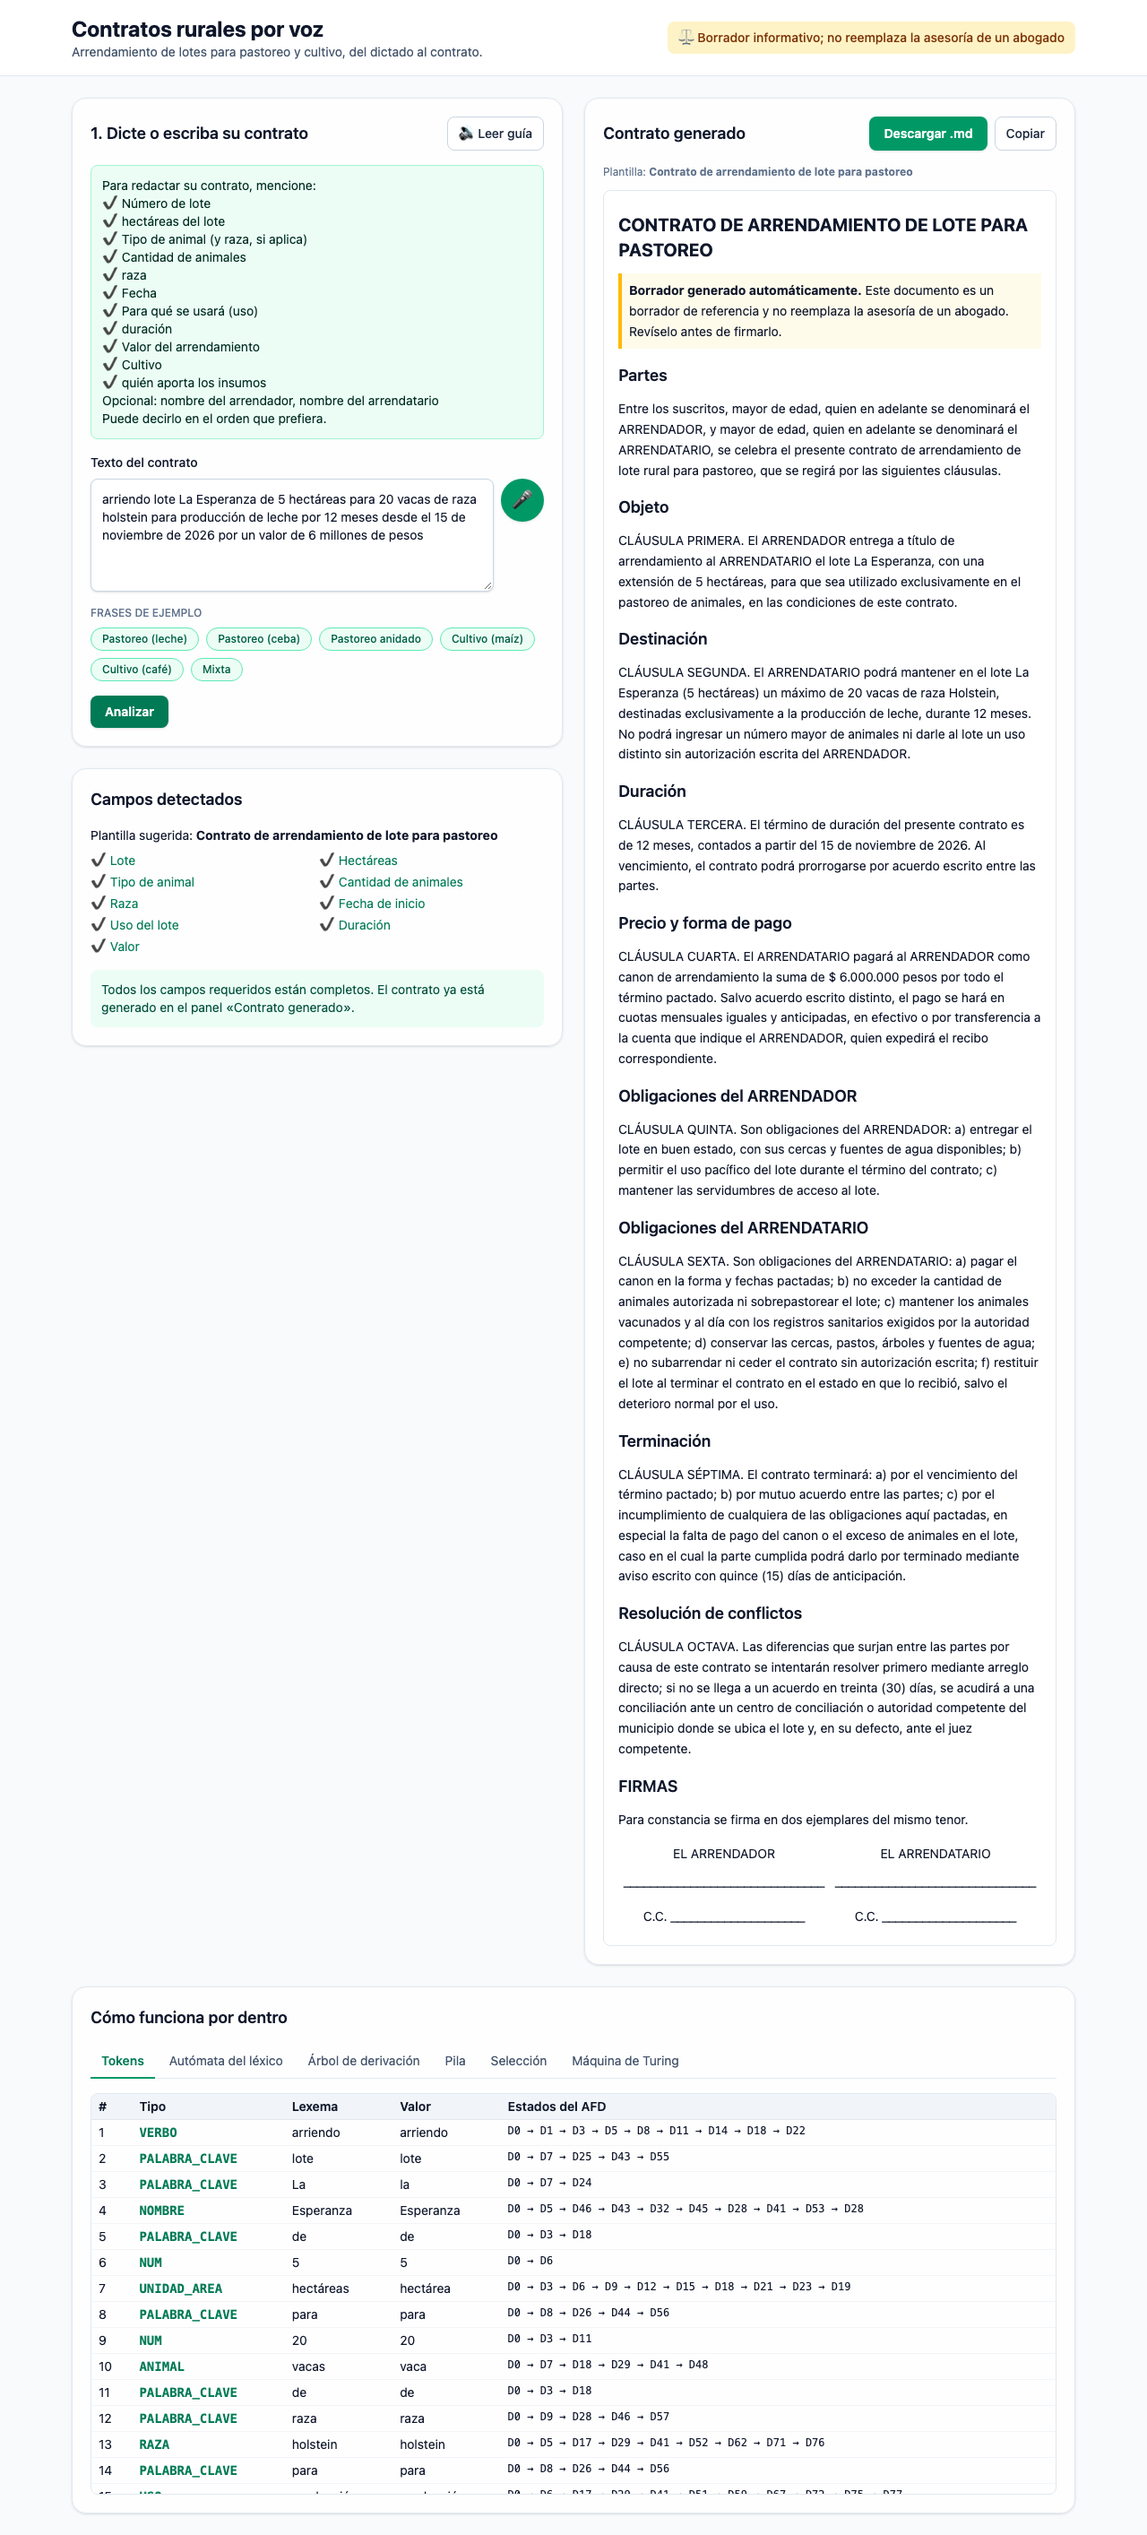
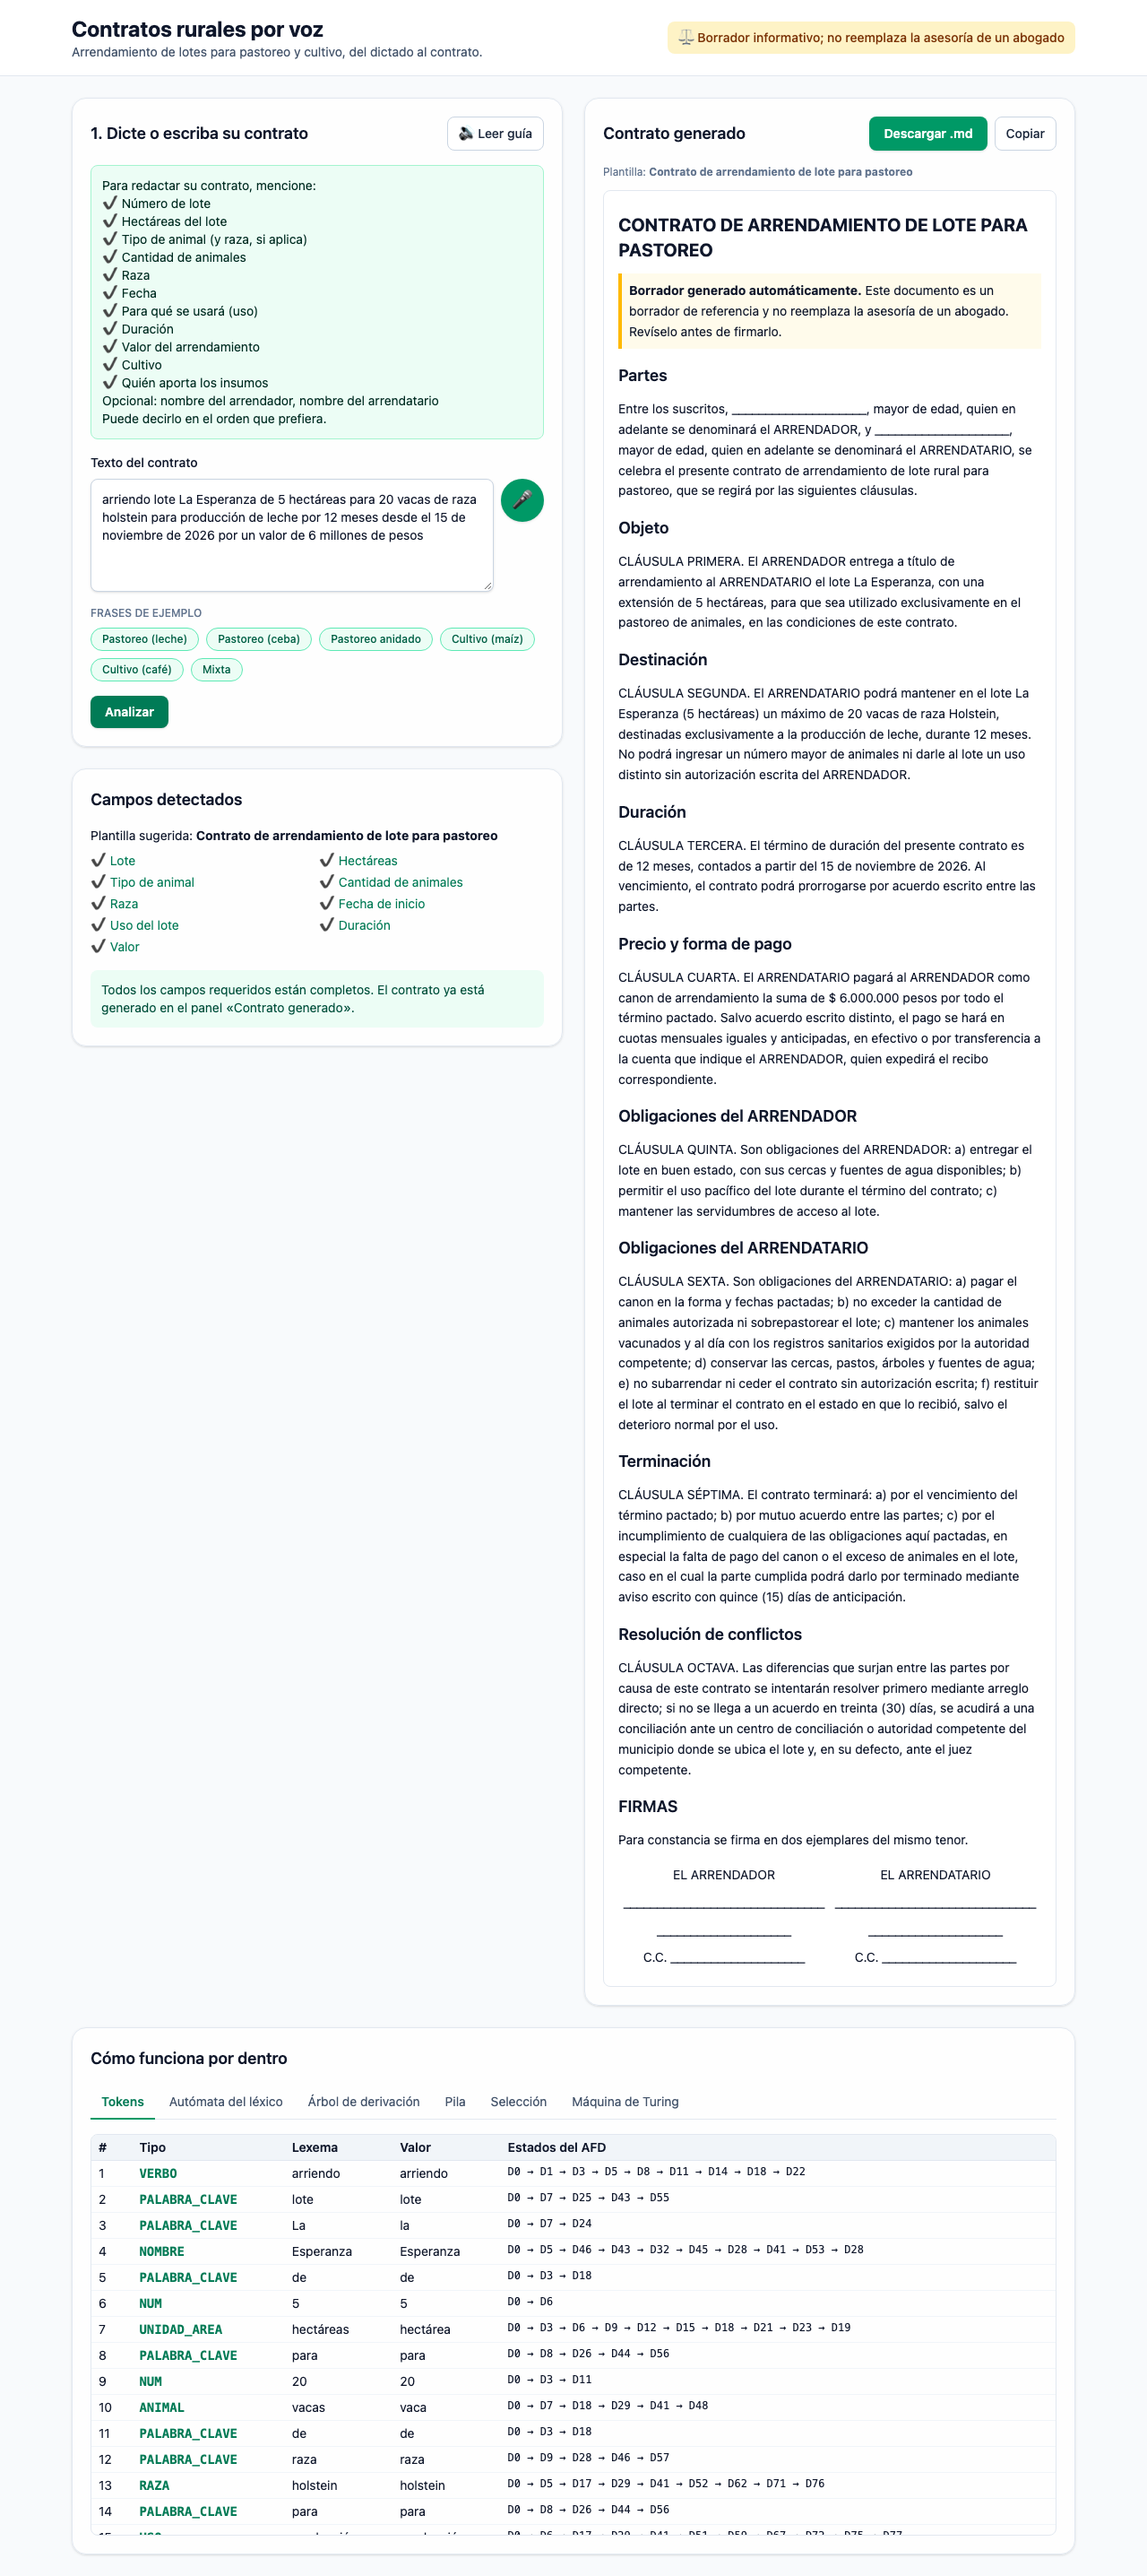
fix(core): leave blank lines for unnamed parties and capitalize guide labels

diff --git a/src/core/dialog.ts b/src/core/dialog.ts
@@ -16,21 +16,61 @@ const animals = (f: ContractFields) => [...(f.animales ?? []), ...(f.animales ??
 
 /** Known field keys (accents ignored). Unknown keys fall back to the key itself. */
 const FIELDS: Record<string, FieldInfo> = {
-  animal: { guide: "Tipo de animal (y raza, si aplica)", question: "el tipo de animal", isPresent: (f) => animals(f).length > 0 },
-  cantidad: { guide: "cantidad de animales", question: "la cantidad de animales", isPresent: (f) => animals(f).some((a) => a.cantidad !== undefined) },
-  tipo_animal: { guide: "Tipo de animal (y raza, si aplica)", question: "el tipo de animal", isPresent: (f) => animals(f).length > 0 },
-  cantidad_animales: { guide: "Cantidad de animales", question: "la cantidad de animales", isPresent: (f) => animals(f).some((a) => a.cantidad !== undefined) },
+  animal: {
+    guide: "Tipo de animal (y raza, si aplica)",
+    question: "el tipo de animal",
+    isPresent: (f) => animals(f).length > 0,
+  },
+  cantidad: {
+    guide: "cantidad de animales",
+    question: "la cantidad de animales",
+    isPresent: (f) => animals(f).some((a) => a.cantidad !== undefined),
+  },
+  tipo_animal: {
+    guide: "Tipo de animal (y raza, si aplica)",
+    question: "el tipo de animal",
+    isPresent: (f) => animals(f).length > 0,
+  },
+  cantidad_animales: {
+    guide: "Cantidad de animales",
+    question: "la cantidad de animales",
+    isPresent: (f) => animals(f).some((a) => a.cantidad !== undefined),
+  },
   raza: { guide: "raza", question: "la raza", isPresent: (f) => animals(f).some((a) => a.raza !== undefined) },
   lote: { guide: "Número de lote", question: "el número o nombre del lote", isPresent: (f) => f.lote !== undefined },
-  hectareas: { guide: "hectáreas del lote", question: "las hectáreas del lote", isPresent: (f) => f.hectareas !== undefined },
+  hectareas: {
+    guide: "hectáreas del lote",
+    question: "las hectáreas del lote",
+    isPresent: (f) => f.hectareas !== undefined,
+  },
   fecha: { guide: "Fecha", question: "la fecha", isPresent: (f) => f.fecha !== undefined },
-  valor: { guide: "Valor del arrendamiento", question: "el valor del arrendamiento", isPresent: (f) => f.valor !== undefined },
-  uso: { guide: "Para qué se usará (uso)", question: "para qué se usará el lote", isPresent: (f) => f.uso !== undefined },
+  valor: {
+    guide: "Valor del arrendamiento",
+    question: "el valor del arrendamiento",
+    isPresent: (f) => f.valor !== undefined,
+  },
+  uso: {
+    guide: "Para qué se usará (uso)",
+    question: "para qué se usará el lote",
+    isPresent: (f) => f.uso !== undefined,
+  },
   duracion: { guide: "duración", question: "la duración", isPresent: (f) => f.duracion !== undefined },
   cultivo: { guide: "Cultivo", question: "el cultivo", isPresent: (f) => f.cultivo !== undefined },
-  insumos: { guide: "quién aporta los insumos", question: "quién aporta los insumos", isPresent: (f) => f.insumos !== undefined },
-  arrendador: { guide: "Nombre del arrendador", question: "el nombre del arrendador", isPresent: (f) => f.arrendador !== undefined },
-  arrendatario: { guide: "Nombre del arrendatario", question: "el nombre del arrendatario", isPresent: (f) => f.arrendatario !== undefined },
+  insumos: {
+    guide: "quién aporta los insumos",
+    question: "quién aporta los insumos",
+    isPresent: (f) => f.insumos !== undefined,
+  },
+  arrendador: {
+    guide: "Nombre del arrendador",
+    question: "el nombre del arrendador",
+    isPresent: (f) => f.arrendador !== undefined,
+  },
+  arrendatario: {
+    guide: "Nombre del arrendatario",
+    question: "el nombre del arrendatario",
+    isPresent: (f) => f.arrendatario !== undefined,
+  },
 };
 
 function infoOf(key: string): FieldInfo | undefined {
@@ -46,12 +86,16 @@ function joinSpanish(parts: string[]): string {
 /** Initial guide (proposal §5.6) built from the template declaration. */
 export function guideText(declaration: FieldDeclaration): string {
   const lines = ["Para redactar su contrato, mencione:"];
-  for (const key of declaration.required) lines.push(`✔ ${infoOf(key)?.guide ?? key}`);
+  for (const key of declaration.required) lines.push(`✔ ${capitalize(infoOf(key)?.guide ?? key)}`);
   if (declaration.optional.length > 0) {
     lines.push(`Opcional: ${declaration.optional.map((k) => (infoOf(k)?.guide ?? k).toLowerCase()).join(", ")}`);
   }
   lines.push("Puede decirlo en el orden que prefiera.");
   return lines.join("\n");
+}
+
+function capitalize(text: string): string {
+  return text.charAt(0).toUpperCase() + text.slice(1);
 }
 
 /** Required keys that are not present in `fields`, in declaration order. */

diff --git a/src/core/pipeline.ts b/src/core/pipeline.ts
@@ -1,7 +1,7 @@
 import { mergeFields, missingFields, questionFor } from "./dialog";
 import { tokenize } from "./lexer";
 import { parseContract, type ParseOutcome } from "./parser";
-import { extractedFieldNames, getTemplate, TEMPLATES, toValueMap } from "./templates";
+import { contractValues, extractedFieldNames, getTemplate, TEMPLATES } from "./templates";
 import { fillTemplate, selectTemplate } from "./turing";
 import type { ContractFields, LexResult, SelectionResult, TemplateDef, TuringRun } from "./types";
 
@@ -44,11 +44,8 @@ export function runPipeline(
   const missing = template ? missingFields(fields, template.required) : [];
   const question = template ? questionFor(missing) : NO_TEMPLATE_QUESTION;
   const ready = template !== null && (missing.length === 0 || options.force === true);
-  const contract = ready ? fillTemplate(template.body, toValueMap(fields)).run : null;
-  const errors = [
-    ...lex.errors.map((e) => `${e.message} en la posición ${e.position}.`),
-    ...parse.errors,
-  ];
+  const contract = ready ? fillTemplate(template.body, contractValues(fields)).run : null;
+  const errors = [...lex.errors.map((e) => `${e.message} en la posición ${e.position}.`), ...parse.errors];
   return { lex, parse, fields, selection, template, missing, question, contract, errors };
 }
 

diff --git a/src/core/templates/templates.test.ts b/src/core/templates/templates.test.ts
@@ -1,6 +1,6 @@
 import { describe, expect, it } from "vitest";
 import { fillTemplate } from "../turing/fill";
-import { extractedFieldNames, formatMoney, toValueMap } from "./format";
+import { extractedFieldNames, formatMoney, toValueMap, contractValues } from "./format";
 import { getTemplate, parseTemplate, TEMPLATES } from "./index";
 import type { ContractFields } from "../types";
 
@@ -139,7 +139,7 @@ describe("toValueMap", () => {
 
 describe("§6 example end to end", () => {
   it("produces the CLÁUSULA SEGUNDA of the proposal", () => {
-    const result = fillTemplate(getTemplate("PASTOREO").body, toValueMap(exampleFields));
+    const result = fillTemplate(getTemplate("PASTOREO").body, contractValues(exampleFields));
     expect(result.run.accepted).toBe(true);
     expect(result.run.output).toContain(
       "CLÁUSULA SEGUNDA. El ARRENDATARIO podrá mantener en el lote La Esperanza (5 hectáreas) un máximo de 20 vacas de raza Holstein, destinadas exclusivamente a la producción de leche, durante 12 meses.",

diff --git a/src/core/templates/format.ts b/src/core/templates/format.ts
@@ -162,3 +162,11 @@ function joinSpanish(list: string[]): string {
   if (list.length <= 1) return list.join("");
   return `${list.slice(0, -1).join(", ")} y ${list.at(-1) ?? ""}`;
 }
+
+/** Party names are optional when dictating; the draft leaves a line to fill in by hand. */
+const BLANK_NAME = "____________________";
+
+/** Values for the fill machine: the extracted data plus blank lines for unnamed parties. */
+export function contractValues(fields: ContractFields): ValueMap {
+  return { arrendador: BLANK_NAME, arrendatario: BLANK_NAME, ...toValueMap(fields) };
+}

diff --git a/src/core/templates/index.ts b/src/core/templates/index.ts
@@ -4,7 +4,7 @@ import mixta from "./mixta.md?raw";
 import pastoreo from "./pastoreo.md?raw";
 import { parseTemplate } from "./parse";
 
-export { extractedFieldNames, formatDate, formatDuration, formatMoney, toValueMap, type ValueMap } from "./format";
+export { contractValues, extractedFieldNames, formatDate, formatDuration, formatMoney, toValueMap, type ValueMap } from "./format";
 export { parseTemplate } from "./parse";
 
 /** All available templates, in preference order (used to break ties). */

diff --git a/src/core/templates/mixta.md b/src/core/templates/mixta.md
@@ -10,7 +10,7 @@ opcionales: arrendador, arrendatario, animales_descripcion
 
 ## Partes
 
-Entre los suscritos, [[?arrendador]]{{arrendador}}, [[/arrendador]]mayor de edad, quien en adelante se denominará el ARRENDADOR, y [[?arrendatario]]{{arrendatario}}, [[/arrendatario]]mayor de edad, quien en adelante se denominará el ARRENDATARIO, se celebra el presente contrato de arrendamiento mixto de lote rural, para pastoreo y cultivo, que se regirá por las siguientes cláusulas.
+Entre los suscritos, {{arrendador}}, mayor de edad, quien en adelante se denominará el ARRENDADOR, y {{arrendatario}}, mayor de edad, quien en adelante se denominará el ARRENDATARIO, se celebra el presente contrato de arrendamiento mixto de lote rural, para pastoreo y cultivo, que se regirá por las siguientes cláusulas.
 
 ## Objeto
 
@@ -51,5 +51,5 @@ Para constancia se firma en dos ejemplares del mismo tenor.
 | EL ARRENDADOR | EL ARRENDATARIO |
 | --- | --- |
 | ______________________________ | ______________________________ |
-| [[?arrendador]]{{arrendador}}[[/arrendador]] | [[?arrendatario]]{{arrendatario}}[[/arrendatario]] |
+| {{arrendador}} | {{arrendatario}} |
 | C.C. ____________________ | C.C. ____________________ |

diff --git a/src/core/templates/pastoreo.md b/src/core/templates/pastoreo.md
@@ -10,7 +10,7 @@ opcionales: arrendador, arrendatario, animales_descripcion
 
 ## Partes
 
-Entre los suscritos, [[?arrendador]]{{arrendador}}, [[/arrendador]]mayor de edad, quien en adelante se denominará el ARRENDADOR, y [[?arrendatario]]{{arrendatario}}, [[/arrendatario]]mayor de edad, quien en adelante se denominará el ARRENDATARIO, se celebra el presente contrato de arrendamiento de lote rural para pastoreo, que se regirá por las siguientes cláusulas.
+Entre los suscritos, {{arrendador}}, mayor de edad, quien en adelante se denominará el ARRENDADOR, y {{arrendatario}}, mayor de edad, quien en adelante se denominará el ARRENDATARIO, se celebra el presente contrato de arrendamiento de lote rural para pastoreo, que se regirá por las siguientes cláusulas.
 
 ## Objeto
 
@@ -51,5 +51,5 @@ Para constancia se firma en dos ejemplares del mismo tenor.
 | EL ARRENDADOR | EL ARRENDATARIO |
 | --- | --- |
 | ______________________________ | ______________________________ |
-| [[?arrendador]]{{arrendador}}[[/arrendador]] | [[?arrendatario]]{{arrendatario}}[[/arrendatario]] |
+| {{arrendador}} | {{arrendatario}} |
 | C.C. ____________________ | C.C. ____________________ |

diff --git a/src/core/templates/cultivo.md b/src/core/templates/cultivo.md
@@ -10,7 +10,7 @@ opcionales: arrendador, arrendatario
 
 ## Partes
 
-Entre los suscritos, [[?arrendador]]{{arrendador}}, [[/arrendador]]mayor de edad, quien en adelante se denominará el ARRENDADOR, y [[?arrendatario]]{{arrendatario}}, [[/arrendatario]]mayor de edad, quien en adelante se denominará el ARRENDATARIO, se celebra el presente contrato de arrendamiento de lote rural para cultivo, que se regirá por las siguientes cláusulas.
+Entre los suscritos, {{arrendador}}, mayor de edad, quien en adelante se denominará el ARRENDADOR, y {{arrendatario}}, mayor de edad, quien en adelante se denominará el ARRENDATARIO, se celebra el presente contrato de arrendamiento de lote rural para cultivo, que se regirá por las siguientes cláusulas.
 
 ## Objeto
 
@@ -51,5 +51,5 @@ Para constancia se firma en dos ejemplares del mismo tenor.
 | EL ARRENDADOR | EL ARRENDATARIO |
 | --- | --- |
 | ______________________________ | ______________________________ |
-| [[?arrendador]]{{arrendador}}[[/arrendador]] | [[?arrendatario]]{{arrendatario}}[[/arrendatario]] |
+| {{arrendador}} | {{arrendatario}} |
 | C.C. ____________________ | C.C. ____________________ |

diff --git a/docs/contratos-demo/03-mixta.md b/docs/contratos-demo/03-mixta.md
@@ -13,7 +13,7 @@
 
 ## Partes
 
-Entre los suscritos, mayor de edad, quien en adelante se denominará el ARRENDADOR, y mayor de edad, quien en adelante se denominará el ARRENDATARIO, se celebra el presente contrato de arrendamiento mixto de lote rural, para pastoreo y cultivo, que se regirá por las siguientes cláusulas.
+Entre los suscritos, ____________________, mayor de edad, quien en adelante se denominará el ARRENDADOR, y ____________________, mayor de edad, quien en adelante se denominará el ARRENDATARIO, se celebra el presente contrato de arrendamiento mixto de lote rural, para pastoreo y cultivo, que se regirá por las siguientes cláusulas.
 
 ## Objeto
 
@@ -54,5 +54,5 @@ Para constancia se firma en dos ejemplares del mismo tenor.
 | EL ARRENDADOR | EL ARRENDATARIO |
 | --- | --- |
 | ______________________________ | ______________________________ |
-|  |  |
+| ____________________ | ____________________ |
 | C.C. ____________________ | C.C. ____________________ |

diff --git a/docs/contratos-demo/01-pastoreo.md b/docs/contratos-demo/01-pastoreo.md
@@ -13,7 +13,7 @@
 
 ## Partes
 
-Entre los suscritos, mayor de edad, quien en adelante se denominará el ARRENDADOR, y mayor de edad, quien en adelante se denominará el ARRENDATARIO, se celebra el presente contrato de arrendamiento de lote rural para pastoreo, que se regirá por las siguientes cláusulas.
+Entre los suscritos, ____________________, mayor de edad, quien en adelante se denominará el ARRENDADOR, y ____________________, mayor de edad, quien en adelante se denominará el ARRENDATARIO, se celebra el presente contrato de arrendamiento de lote rural para pastoreo, que se regirá por las siguientes cláusulas.
 
 ## Objeto
 
@@ -54,5 +54,5 @@ Para constancia se firma en dos ejemplares del mismo tenor.
 | EL ARRENDADOR | EL ARRENDATARIO |
 | --- | --- |
 | ______________________________ | ______________________________ |
-|  |  |
+| ____________________ | ____________________ |
 | C.C. ____________________ | C.C. ____________________ |

diff --git a/docs/contratos-demo/02-cultivo.md b/docs/contratos-demo/02-cultivo.md
@@ -13,7 +13,7 @@
 
 ## Partes
 
-Entre los suscritos, mayor de edad, quien en adelante se denominará el ARRENDADOR, y mayor de edad, quien en adelante se denominará el ARRENDATARIO, se celebra el presente contrato de arrendamiento de lote rural para cultivo, que se regirá por las siguientes cláusulas.
+Entre los suscritos, ____________________, mayor de edad, quien en adelante se denominará el ARRENDADOR, y ____________________, mayor de edad, quien en adelante se denominará el ARRENDATARIO, se celebra el presente contrato de arrendamiento de lote rural para cultivo, que se regirá por las siguientes cláusulas.
 
 ## Objeto
 
@@ -54,5 +54,5 @@ Para constancia se firma en dos ejemplares del mismo tenor.
 | EL ARRENDADOR | EL ARRENDATARIO |
 | --- | --- |
 | ______________________________ | ______________________________ |
-|  |  |
+| ____________________ | ____________________ |
 | C.C. ____________________ | C.C. ____________________ |
